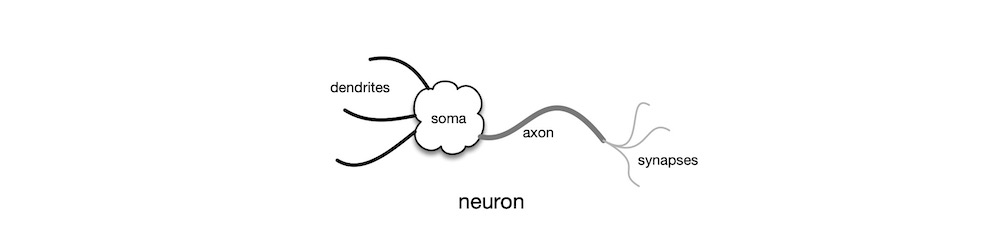
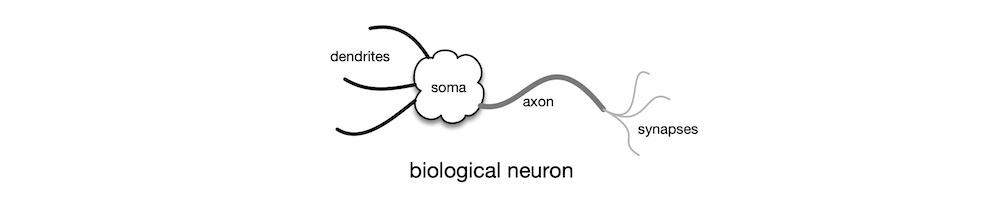
tidy

diff --git a/stem/HowAIWorks.md b/stem/HowAIWorks.md
@@ -7,17 +7,19 @@ use_math: true
 
 # INTRODUCTION
 
-In this article, I present a high-level overview of artificial intelligence (AI). I describe what constitutes AI, its inner workings, its uses, and its social and ethical implications.
+In this article, I present a high-level overview of artificial intelligence (AI). I describe what AI is, its inner workings, its uses, and its social and ethical implications. The intended audience is anyone curious about how AI works.
 
 # APPROACHES
 
 There are two main AI paradigms: connectionist and rule-based. *Connectionist* AI is commonly known as neural networks. *Rule-based* AI is traditionally associated with the LISP programming language.
 
-***connectionist approach***—The myriad AI techniques that are in popular use today, different as they may appear, all share a common foundation: they all come under the umbrella term *artificial neural network* (NN). NN is a computational approach inspired by the quintessential biological neural network—the [brain](https://en.wikipedia.org/wiki/Brain). The fundamental processing unit in the brain is the [neuron](https://en.wikipedia.org/wiki/Neuron). See the figure below. The [dendrites](https://en.wikipedia.org/wiki/Dendrite) of the neuron receive electrochemical signal inputs as weighted outputs from the upstream neurons. The weight can be negative, zero, or positive. The [soma](https://en.wikipedia.org/wiki/Soma_(biology)), the cell body, sums up the weighted input signals. The neuron also receives activation signals via the dendrites. Inhibitory (negative) activation signal keeps the neuron inactive. Excitatory (positive) activation signal causes the neuron to fire its output, which is derived from the weighted sum of its inputs. The [axon](https://en.wikipedia.org/wiki/Axon) trunk carries the output signal to the [synapses](https://en.wikipedia.org/wiki/Synapse), which make electrochemical connections to the input dendrites of downstream neurons. Learning involves establishing, strengthening, weakening, and removing signal pathways among the neurons. Although the structure and functions of the brain are far more intricate and complex, the simply-butchered description above suffices for our purposes, here.
+## *connectionist*
+
+The myriad AI techniques that are in popular use today, different as they may appear, all share a common foundation: they all come under the umbrella term *artificial neural network* (NN). NN is a computational approach inspired by the quintessential biological neural network—the [brain](https://en.wikipedia.org/wiki/Brain). The most basic processing unit in the brain is the [neuron](https://en.wikipedia.org/wiki/Neuron). See the figure below. The [dendrites](https://en.wikipedia.org/wiki/Dendrite) of the neuron receive electrochemical signal inputs as weighted outputs from the upstream neurons. The weight can be negative, zero, or positive. The [soma](https://en.wikipedia.org/wiki/Soma_(biology)), the cell body, sums up the weighted input signals. The neuron also receives activation signals via the dendrites. Inhibitory (negative) activation signal keeps the neuron inactive. Excitatory (positive) activation signal causes the neuron to fire its output, which is derived from the weighted sum of its inputs. The [axon](https://en.wikipedia.org/wiki/Axon) trunk carries the output signal to the [synapses](https://en.wikipedia.org/wiki/Synapse), which make electrochemical connections to the input dendrites of downstream neurons. Learning involves establishing, strengthening, weakening, and removing signal pathways among the neurons. Although the structure and functions of the brain are far more intricate and complex, the simply-butchered description above suffices for our purposes, here.
 
 ![biological neuron](./figures/AI/BiologicalNeuron.jpg)
 
-The earliest, practical NN model was invented in 1943 by neuroscientist [McCulloch](https://en.wikipedia.org/wiki/Warren_Sturgis_McCulloch) and logician [Pitts](https://en.wikipedia.org/wiki/Walter_Pitts). The diagram below shows the [McCulloch-Pitts](https://en.wikipedia.org/wiki/Artificial_neuron) neuron. The neuron $n_j$ computes $y_j = f(∑_{j=0}^{N} w_{ji} x_i)$. The $x_i$ are the output signals from the upstream neurons that arrive via an input connection, which has an associated multiplier called the weight $w_{ji}$. The neuron then sums all its weighted inputs $w_{ji} x_i$, and passes this value through the transfer function $f$ to compute its output $y_j$. The McCulloch-Pitts neuron uses a simple threshold function as its transfer function, which models the activation behaviour of the biological neuron. The output is then sent to the downstream neurons via weighted connections.
+The earliest, practical NN model was invented in 1943 by neuroscientist [McCulloch](https://en.wikipedia.org/wiki/Warren_Sturgis_McCulloch) and logician [Pitts](https://en.wikipedia.org/wiki/Walter_Pitts). The diagram below shows the [McCulloch-Pitts](https://en.wikipedia.org/wiki/Artificial_neuron) artificial neuron. The neuron $n_j$ computes $y_j = f(∑_{j=0}^{N} w_{ji} x_i)$. The $x_i$ are the output signals from the upstream neurons that arrive via an input connection, which has an associated multiplier called the weight $w_{ji}$. The neuron then sums all its weighted inputs $w_{ji} x_i$, and passes this value through the transfer function $f$ to compute its output $y_j$. The McCulloch-Pitts neuron uses a simple threshold function as its transfer function, which models the activation behaviour of the biological neuron. The output is then sent to the downstream neurons via weighted connections.
 
 ![McCulloch-Pitts neuron](./figures/AI/McCullochPitts.jpg)
 
@@ -27,9 +29,11 @@ Neurons are assembled into a neural network by arranging them in layers. Classic
 
 The two main types of learning algorithms are the supervised and the unsupervised varieties. A *supervised* learning algorithm requires a target (desired output) pattern for each input pattern, whereas an *unsupervised* learning algorithm does not require target patterns.
 
-There have been many classic NN learning algorithms. The first was the unsupervised [self-organising](https://ieeexplore.ieee.org/document/1057468) learning algorithm invented by Farley and [Clark](https://en.wikipedia.org/wiki/Wesley_A._Clark) in 1954. But the [Perceptron](https://en.wikipedia.org/wiki/Perceptron), a type of supervised classifier learning algorithm, was perhaps the most famous. It was invented by American psychologist [Rosenblatt](https://en.wikipedia.org/wiki/Frank_Rosenblatt) in 1957. He first implemented the algorithm on Cornell's IBM 704 mainframe. Subsequently, he built a custom, electromechanical [analogue computer](https://en.wikipedia.org/wiki/Analog_computer), called the Mark I Perceptron, which used motorised [potentiometers](https://en.wikipedia.org/wiki/Potentiometer) to represent trainable (adjustable) weights. Perceptron was capable of recognising letters. The eye of the Perceptron was a $20 × 20$ grid of photocells that produced a [greyscale](https://en.wikipedia.org/wiki/Grayscale) image. This resolution, though very low, was adequate to encode letters presented to the sensor.
+There have been many classic NN learning algorithms. The first was the unsupervised [self-organising](https://ieeexplore.ieee.org/document/1057468) learning algorithm invented by Farley and [Clark](https://en.wikipedia.org/wiki/Wesley_A._Clark) in 1954. Although unsupervised learning algorithms are less frequently used today, the [self-organising map](https://en.wikipedia.org/wiki/Self-organizing_map) (SOM) algorithm is well known. It was invented in 1982 by Finnish engineering professor [Kohonen](https://en.wikipedia.org/wiki/Teuvo_Kohonen), who was inspired by the human perceptual systems, specifically the visual and the aural. Most learning algorithms in use today, however, are of the supervised variety. They trace their origins to the [Perceptron](https://en.wikipedia.org/wiki/Perceptron), a supervised learning algorithm for linear classifiers. It was invented by American psychologist [Rosenblatt](https://en.wikipedia.org/wiki/Frank_Rosenblatt) in 1957. He first implemented the algorithm on Cornell's IBM 704 mainframe. Subsequently, he built a custom, electromechanical [analogue computer](https://en.wikipedia.org/wiki/Analog_computer), called the Mark I Perceptron, which used motorised [potentiometers](https://en.wikipedia.org/wiki/Potentiometer) to represent trainable (adjustable) weights. Perceptron was capable of recognising letters. The eye of the Perceptron was a $20 × 20$ grid of photocells that produced a [greyscale](https://en.wikipedia.org/wiki/Grayscale) image. This resolution, though very low, was adequate to encode letters presented to the sensor.
 
-***rule-based approach***—The main weakness of Perceptron was its linearity: it can only learn to discern patterns if they are linearly separable, that is their classifier boundary is a straight line. The Perceptron's inability to learn even the simplest of non-linear classifiers, like the one required to implement the [exclusive or](https://en.wikipedia.org/wiki/Exclusive_or) (XOR) function shown below, led to its eventual downfall.
+## *rule-based*
+
+The main weakness of Perceptron was its linearity: it can only learn to discern patterns if they are linearly separable, that is their classifier boundary is a straight line. The Perceptron's inability to learn even the simplest of non-linear classifiers, like the one required to implement the [exclusive or](https://en.wikipedia.org/wiki/Exclusive_or) (XOR) function shown below, led to its eventual downfall.
 
 ![non-linear classifier](./figures/AI/NonLinearClassifier.jpg)
 
@@ -37,21 +41,31 @@ In 1969, [Minsky](https://en.wikipedia.org/wiki/Marvin_Minsky) and [Papert](http
 
 Minsky was motivated, at least in part, to show the limitations of the connectionist approach, because his AI Lab at MIT was wholly dedicated to rule-based approach. In 1958, [McCarthy](https://en.wikipedia.org/wiki/John_McCarthy_(computer_scientist)) created the [LISP](https://en.wikipedia.org/wiki/Lisp_(programming_language)) programming language at MIT. Incidentally, the first implementation of LISP was for the IBM 704. LISP was a machine implementation of [𝜆-calculus](https://en.wikipedia.org/wiki/Lambda_calculus), a mathematical model of computation created by [Church](https://en.wikipedia.org/wiki/Alonzo_Church) in 1936. Indeed, LISP was the second high-level programming language (after FORTRAN) and the first [functional](https://en.wikipedia.org/wiki/Functional_programming) programming language. The mathematical nature and the [symbolic processing](https://en.wikipedia.org/wiki/Computer_algebra) abilities of LISP was well suited to implementing rule-based AI programmes, and it quickly became the favourite among the rule-based crowd, [especially at MIT](https://en.wikipedia.org/wiki/Lisp_machine). Suffice it to say, Minsky's *Perceptrons* killed off Perceptron and other NNs in the early 1970s, and expert systems dominated AI over the next decade.
 
-An [expert system](https://en.wikipedia.org/wiki/Expert_system) is an AI application modelled upon the way human experts make technical decisions in the course of performing their daily duties. Early chess playing systems were expert systems. An expert system is preconfigured with a set of rules for making decisions. When the user provides an input, the system applies the rules against the input and, step by step, arrives at a decision. But few things in nature exhibit such orderly behaviour. Moreover, humans understand even fewer things in nature at such a level of detail. Even if we manage to grasp the dynamics of a large problem, the rules and their interactions would be so intricate that we would be unable to manage the complexity. Unfortunately, the purveyors of expert systems over promised and the media over reported the hype. By the early 1980s, the users and the public had lost interest in expert systems, and the funding spigot was shut. This period is now known as [AI Winter](https://en.wikipedia.org/wiki/AI_winter).
+An [expert system](https://en.wikipedia.org/wiki/Expert_system) is an AI application modelled upon the way human experts make technical decisions in the course of performing their daily duties. Early automated theorem proving systems, chess playing systems, and decision support systems were, in essence, expert systems. Such a system is preconfigured with a set of rules for making decisions—selecting a `yes` or a `no` at each step. When the user provides an input, the system applies the rules against the input and, step by step, arrives at a decision. When the set of rules is comprehended and comprehensive, expert systems work exceedingly well. Another major advantage of expert systems is that the results can always be explained fully by simply tracing the algorithm's path down the decision tree.
 
-***backpropagation***—A few researchers who saw the true strengths of AI continued on, underground. In 1986, [Rumelhart](https://en.wikipedia.org/wiki/David_Rumelhart), [Hinton](https://en.wikipedia.org/wiki/Geoffrey_Hinton), and [Williams](https://en.wikipedia.org/wiki/Ronald_J._Williams) published their seminal paper, *[Learning representations by back-propagating errors](https://www.nature.com/articles/323533a0)*. Their learning algorithm became known as *backpropagation* (BP). BP is a supervised learning algorithm that modifies the network's weights in proportion to the amount of representation error the network commits in each pass through the data set. In that respect, BP's learning process is no different in kind than that of the Perceptron: find the optimal set of weights that minimise representation errors. But BP's main advantage over the Perceptron is its ability to learn non-linear classifiers. Indeed, non-linearity was why BP works and Perceptron did not. Mathematically, the BP learning algorithm is a simple, [gradient descent](https://en.wikipedia.org/wiki/Gradient_descent) optimisation scheme known to mathematicians since [Cauchy](https://en.wikipedia.org/wiki/Augustin-Louis_Cauchy) introduced it in 1847. But practically, it was capable of solving substantive problems which, until then, were deemed too difficult for machines.
+But few things in nature exhibit such orderly behaviour. Moreover, humans understand even fewer things in nature at such a level of detail. Even if we manage to grasp the dynamics of a large problem, the rules and their interactions would be intractable. Unfortunately, the purveyors of expert systems over promised and the media over reported the hype. By the early 1980s, the users and the public had lost interest in expert systems, and the funding spigot was shut. This period is now known as [AI Winter](https://en.wikipedia.org/wiki/AI_winter).
+
+## *backpropagation*
+
+A few researchers who saw the true strengths of AI continued working in the field, underground. In 1986, [Rumelhart](https://en.wikipedia.org/wiki/David_Rumelhart), [Hinton](https://en.wikipedia.org/wiki/Geoffrey_Hinton), and [Williams](https://en.wikipedia.org/wiki/Ronald_J._Williams) published their seminal paper, *[Learning representations by back-propagating errors](https://www.nature.com/articles/323533a0)*. Their learning algorithm became known as *backpropagation* (BP). BP is a supervised learning algorithm that modifies the network's weights in proportion to the amount of representation error the network commits in each pass through the data set. In that respect, BP's learning process is no different in kind than that of the Perceptron: find the optimal set of weights that minimise representation errors. But BP's main advantage over the Perceptron is its ability to learn non-linear classifiers. Indeed, non-linearity was why BP works and Perceptron did not. Mathematically, the BP learning algorithm is a simple, [gradient descent](https://en.wikipedia.org/wiki/Gradient_descent) optimisation scheme known to mathematicians since [Cauchy](https://en.wikipedia.org/wiki/Augustin-Louis_Cauchy) introduced it in 1847. But practically, it was capable of solving substantive problems which, until then, were deemed too difficult for machines.
 
 In the 1980s, a room-sized minicomputer, like the [DEC VAX-11/780](https://en.wikipedia.org/wiki/VAX-11), had 1 MB of RAM, usually much less. So, networks were very small, a typical model having just two layers and a handful of neurons in each layer. Despite such restrictions, BP-based networks were able to solve efficiently a number of complex, non-linear problems, like speech recognition, image classification, robotics control, etc. Within a couple of years, BP single-handedly resuscitated the dying AI field. Many variants and improvements soon followed, further improving network performance. Understandably, the AI community was cautiously optimistic, this time round.
 
+Most users of NNs simulate on mainstream computing hardware, like the VAX-11 or RISC workstations. But these machines, though powerful for their day, are severely limited in both CPU power and RAM capacity. In response, a number of groups developed custom hardware for neural computing. Some built machines out of common digital hardware but optimised for neural computing, but others designed custom analogue VLSI chips. The Stanford group led by [Mead](https://en.wikipedia.org/wiki/Carver_Mead) was especially productive in this area. His PhD student, [Mahowald](https://en.wikipedia.org/wiki/Misha_Mahowald), developed the [silicon retina](https://en.wikipedia.org/wiki/Event_camera), which is an image sensor technology that out performs the human eye and the best DSLRs by several orders of magnitude. This technology was further developed by Mead's company, [Foveon](https://en.wikipedia.org/wiki/Foveon), which is now part of [SIGMA](https://www.sigma-global.com/en/).
+
 Most folks today are unaware that there was a AI Mini Ice Age during the mid 1990s. Although the hardware capabilities had increased leaps and bounds, the storage technology was still somewhat limited. Disc sizes were still measured in MB, albeit in hundreds thereof. Most data sets used in AI were only a few MBs in size. The lack of storage capacity necessarily constrained the completeness of data sets. So, neither humans nor networks could see the true nature of massive, complex, dynamical systems. The lack of data, thus, stunted the growth of AI. To get around some of the limitations, many experimented melding rule-based and connectionist techniques. But for the most part, NNs were confined to academic research and to small-scale commercial use to the end of the 1990s. The [dot-com collapse](https://en.wikipedia.org/wiki/Dot-com_bubble) at the end of the 1990s and the subsequent economic stagnation did no favours to AI.
 
-***deep learning***—Then came the age of Internet Giants—the early 2000s. Massive, simultaneous advances in computing power, storage capacity, network connectivity, graphics technology, and software techniques conspired to create the fastest growth in the history of human invention. The Web came of age. Online shopping became the norm. Billion-user social media platforms became a reality. The Internet Giants saw gold in the users' private data, which they procured by giving away free online services. [Big data](https://en.wikipedia.org/wiki/Big_data) was born. It was in this era of data that a variant of BP, [deep learning](https://en.wikipedia.org/wiki/Deep_learning) (DL), showed its prowess. Whereas the classic BPs of the 1990s could only use two or three layers of neurons due to hardware limitations, the modern DLs routinely employ many layers and many different types of neurons. Typically, home users of DLs train their networks on high-end, desktop graphics cards, like the [nVIDIA RTX](https://www.nvidia.com/en-us/design-visualization/desktop-graphics/) so as to exploit the card's built-in support for parallel matrix operations across tens of thousands of cores. The "deep" in deep learning refers to the depth of those many layers, as shown below.
+## ***deep learning***
+
+Then came the age of Internet Giants—the early 2000s. Massive, simultaneous advances in computing power, storage capacity, network connectivity, graphics technology, and software techniques conspired to create the fastest growth in the history of human invention. The Web came of age. Online shopping became the norm. Billion-user social media platforms became a reality. The Internet Giants saw gold in the users' private data, which they procured by giving away free online services. [Big data](https://en.wikipedia.org/wiki/Big_data) was born. It was in this era of data that people began recognising the true potential of BP, rather its descendant—[deep learning](https://en.wikipedia.org/wiki/Deep_learning) (DL).
+
+Whereas the classic BPs of the 1990s could only use two or three layers of neurons due to hardware limitations, the modern DLs routinely employ many layers and many different types of neurons. Typically, home users of DLs train their networks on high-end, desktop graphics cards, like the [nVIDIA RTX](https://www.nvidia.com/en-us/design-visualization/desktop-graphics/) so as to exploit the graphics card's built-in support for parallel matrix operations across tens of thousands of cores. The "deep" in deep learning refers to the depth of those many layers, as shown below.
 
 ![deep learning neural network](./figures/AI/DeepLearningNetwork.jpg)
 
-Another substantial advantage of modern DLs over classic BPs is feature extraction. Feature extraction required the use of sophisticated, mathematical techniques such as [digital signal processing](https://en.wikipedia.org/wiki/Digital_signal_processing) (DSP), [digital image processing](https://en.wikipedia.org/wiki/Digital_image_processing) (DIP), [natural language processing](https://en.wikipedia.org/wiki/Natural_language_processing) (NLP), etc. Each such technique constitutes a highly specialised, not to mention expansive, subfield within mathematics or engineering. So, competent practitioners were relatively few in numbers in the early days of BPs, which limited their usefulness. But DLs subsume feature extraction into the front-end layers of the network. That is, a DL network automatically extracts salient features from the data, and learns to represent those features in its connection weights, with little or no guidance from human experts. Hence, DL networks can be used effectively even by non-experts. Paradoxically, this characteristic of DLs is also a disadvantage, of sort: if a complex AI problem can be solved merely by clicking a button on a GUI, there is no need for the user to perform any analysis of the problem domain and the accumulated data, so he gains no insight into the problem and he cannot explain why the solution appears to work. Regardless, DLs are here to stay; now is their day.
+Another substantial advantage of modern DLs over classic BPs is feature extraction. Feature extraction required the use of sophisticated, mathematical techniques such as [digital signal processing](https://en.wikipedia.org/wiki/Digital_signal_processing) (DSP), [digital image processing](https://en.wikipedia.org/wiki/Digital_image_processing) (DIP), [natural language processing](https://en.wikipedia.org/wiki/Natural_language_processing) (NLP), etc. Each such technique constitutes a highly specialised, not to mention expansive, subfield within mathematics or engineering. So, competent practitioners were relatively few in numbers in the early days of BPs, which limited their usefulness. But DLs subsume feature extraction into the front-end layers of the network. That is, a DL network automatically extracts salient features from the data, and learns to represent those features in its connection weights, with little or no guidance from human experts. Hence, DL networks can be used effectively even by non-experts. Paradoxically, this characteristic of DLs is also a disadvantage, of sort: if a complex AI problem can be solved merely by clicking a button on a GUI, there is no need for the user to perform any analysis of the problem domain and of the massive amounts of data accumulated, so he gains no insight into the problem and he cannot explain the reasons why the solution appears to work. Regardless, DLs are here to stay; now is their day.
 
-For almost a quarter century, our shopping habits, social media propensities, blogging activities, email communications, cloud-borne personal data—just about every aspect of our lives, both personal and professional—have been collected, analysed, categorised, tracked, and predicted by Internet Giants' DLs. Despite their significance in modern society, however, DLs are but a small part of a much broader category of powerful modern methods known collectively as [machine learning](https://en.wikipedia.org/wiki/Machine_learning) (ML) algorithms, which in turn are a subfield within AI.
+Over the past quarter century, our shopping habits, social media propensities, blogging activities, email exchanges, cloud-borne personal information—just about every aspect of our lives, both personal and professional—have been collected, analysed, categorised, tracked, and predicted by Internet Giants' DLs. Despite their prominence in modern life, however, DLs are but a small part of a much broader category of powerful modern methods known collectively as [machine learning](https://en.wikipedia.org/wiki/Machine_learning) (ML) algorithms, which in turn are a subfield within AI.
 
 # APPLICATIONS
 
@@ -67,11 +81,13 @@ composition—text, music, painting
 
 # ALGORITHMS
 
-classic techniques
+categories—statistics, connectionist, hybrid, etc.
 
-modern techniques
+classic techniques—SOM, BP, analogue VLSI
 
-data collection, analysis, cleansing
+modern techniques—DL
+
+data collection, analysis, cleansing—statistics, projection, DSP, DIP, wavelets
 
 # AWARENESS
 
@@ -83,4 +99,8 @@ regulations
 
 # CONCLUSION
 
-asdf
+There are three types of people interested in AI: the curious public, the incurious users, and the eager researchers. The curious public are those who do not work with AI but just want to understand how AI works at a basic level. The incurious users are coders in the IT industry who could care less about how AI works and they just want to slap together some AI programme. The eager researchers are the ones who have their skins in the game. Although this article is aimed at the curious public, the other two groups may benefit from it, as well: coders and their managers may benefit from understanding better what the code is doing; aspiring researchers and beginning graduate students may benefit from knowing the historical background of their field of interest.
+
+Some years ago, I was shooed off the NN forum on the now-defunct Google+ platform by a gang of young AI enthusiasts for suggesting that all researchers should be familiar with the classic works of researchers, like McCulloch, Pitts, Rosenblatt, Widrow, Kohonen, Hopfield, Rumenhart, LeCun, etc., in addition to the modern literature. Despite my resounding defeat on social media, I stand by that view: they who admire only the newest and the most fashionable learn nothing from history, and they lack the requisite background of the field. It is important to realise that knowing how to code an AI application using library calls is not the same as understanding what that application is actually doing. Those who use AI without comprehending its strengths, weaknesses, and ethical implications bring no long-term benefits to society. Indeed, they may do more harm than good to humanity.
+
+Lastly, the public must recognise that the founders and leaders of Internet Giants do not necessarily understand the AI technologies their companies are employing. The chief executive of a corporation is legally responsible for maximising the shareholders' returns. This legal mandate often conflicts with ethical, social, and equitable concerns of the public. The IT executives should wield their powers, by all means; but they ought to act in a socially responsible manner. When these large, powerful international conglomerates wilfully breach the public's trust, the only recourse is the law. In a democracy, the law derives its powers from the public. As such, the public must exercise its duty to study the impacts and trends of AI technologies and to monitor the activities of AI users.

diff --git a/stem/ComputingHistory/HowRPNCalculatorsWork.md b/stem/ComputingHistory/HowRPNCalculatorsWork.md
@@ -258,7 +258,7 @@ Below, I present my meagre collection of HP RPN programmable scientific calculat
   - E—no continuous memory feature
   - S—scientific calculator
   - V—$5×$ memory capacity than the base model
-  - X—$10×$ memory capacity than the base model
+  - X—extended version
 - Carefully examine the eBay photos for defects. Some defects are hard to spot, such as a missing segment on a traditional, seven-segment LED or a pen-tip dent on the metal faceplate.
 - Avoid eBay listings with blurry photos.
 - Avoid all calculators with mushy keys, whatever the brand, whatever the price.
